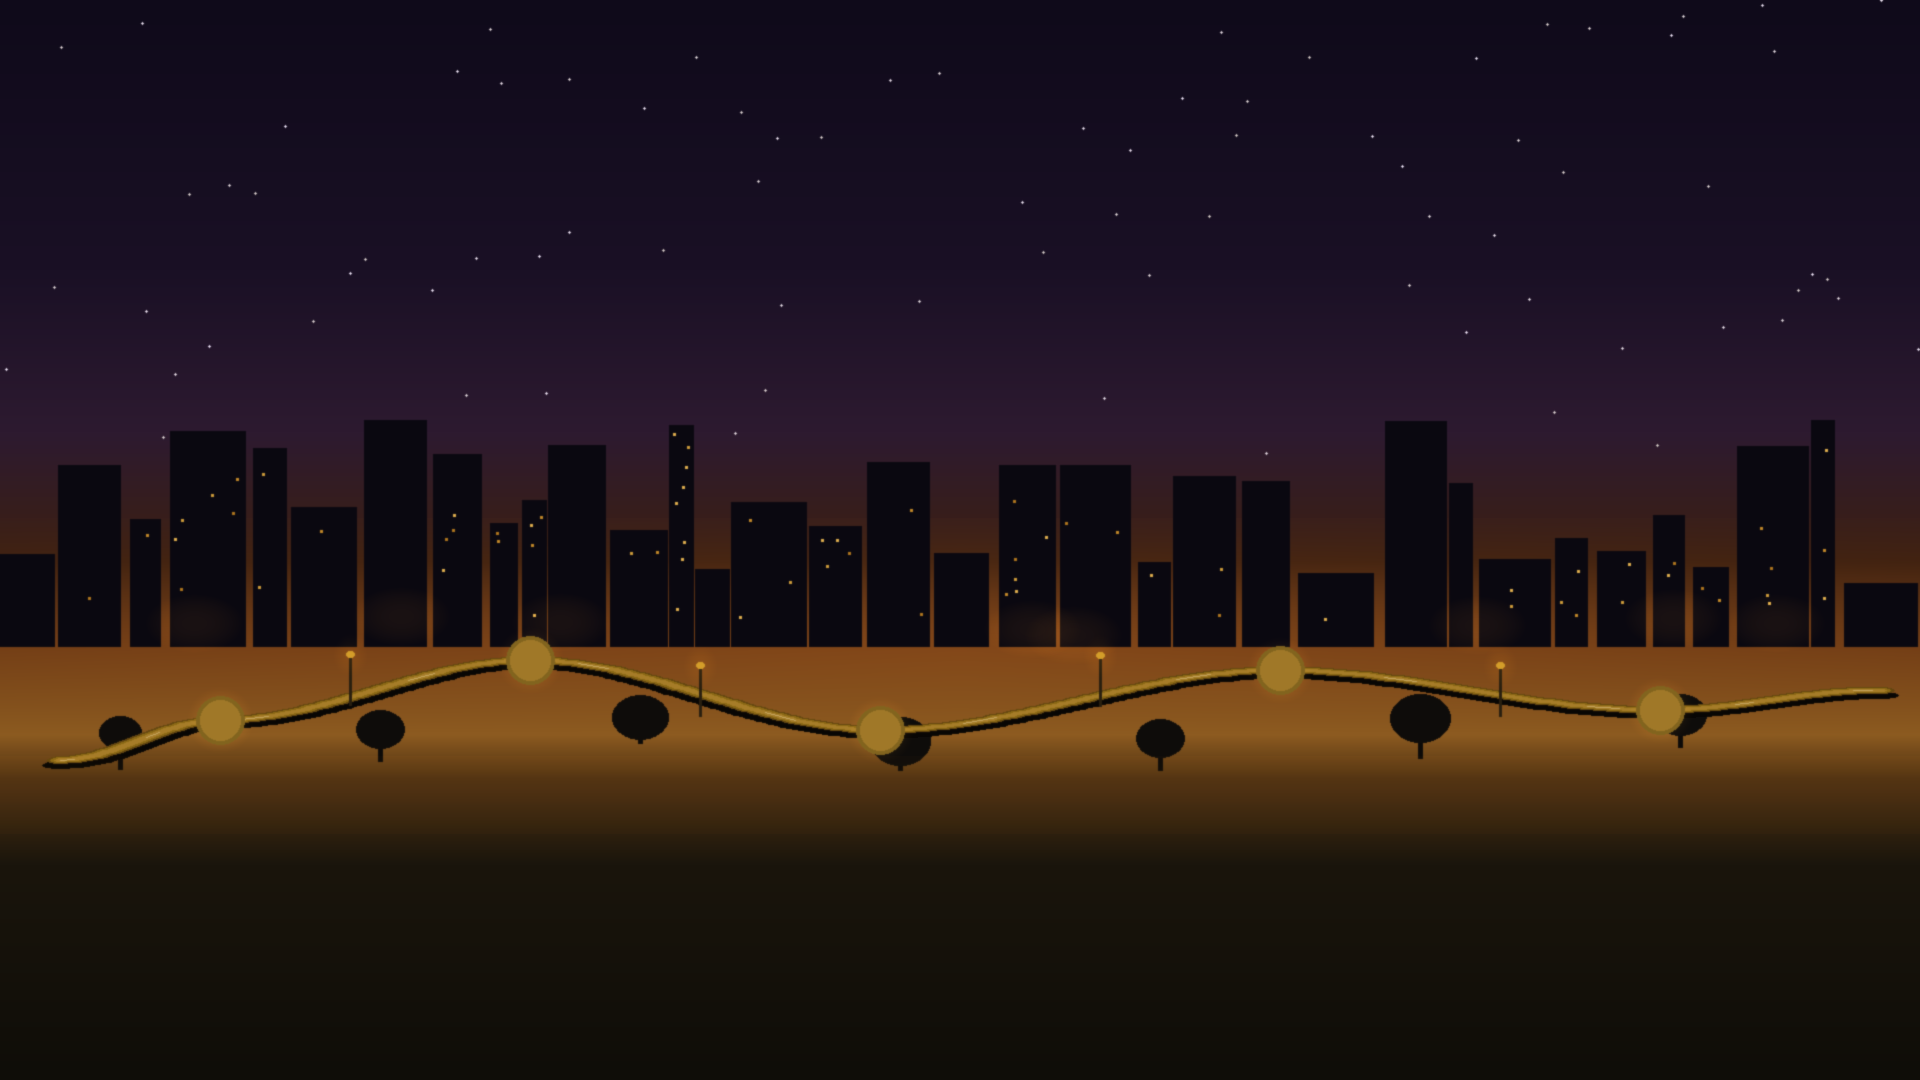
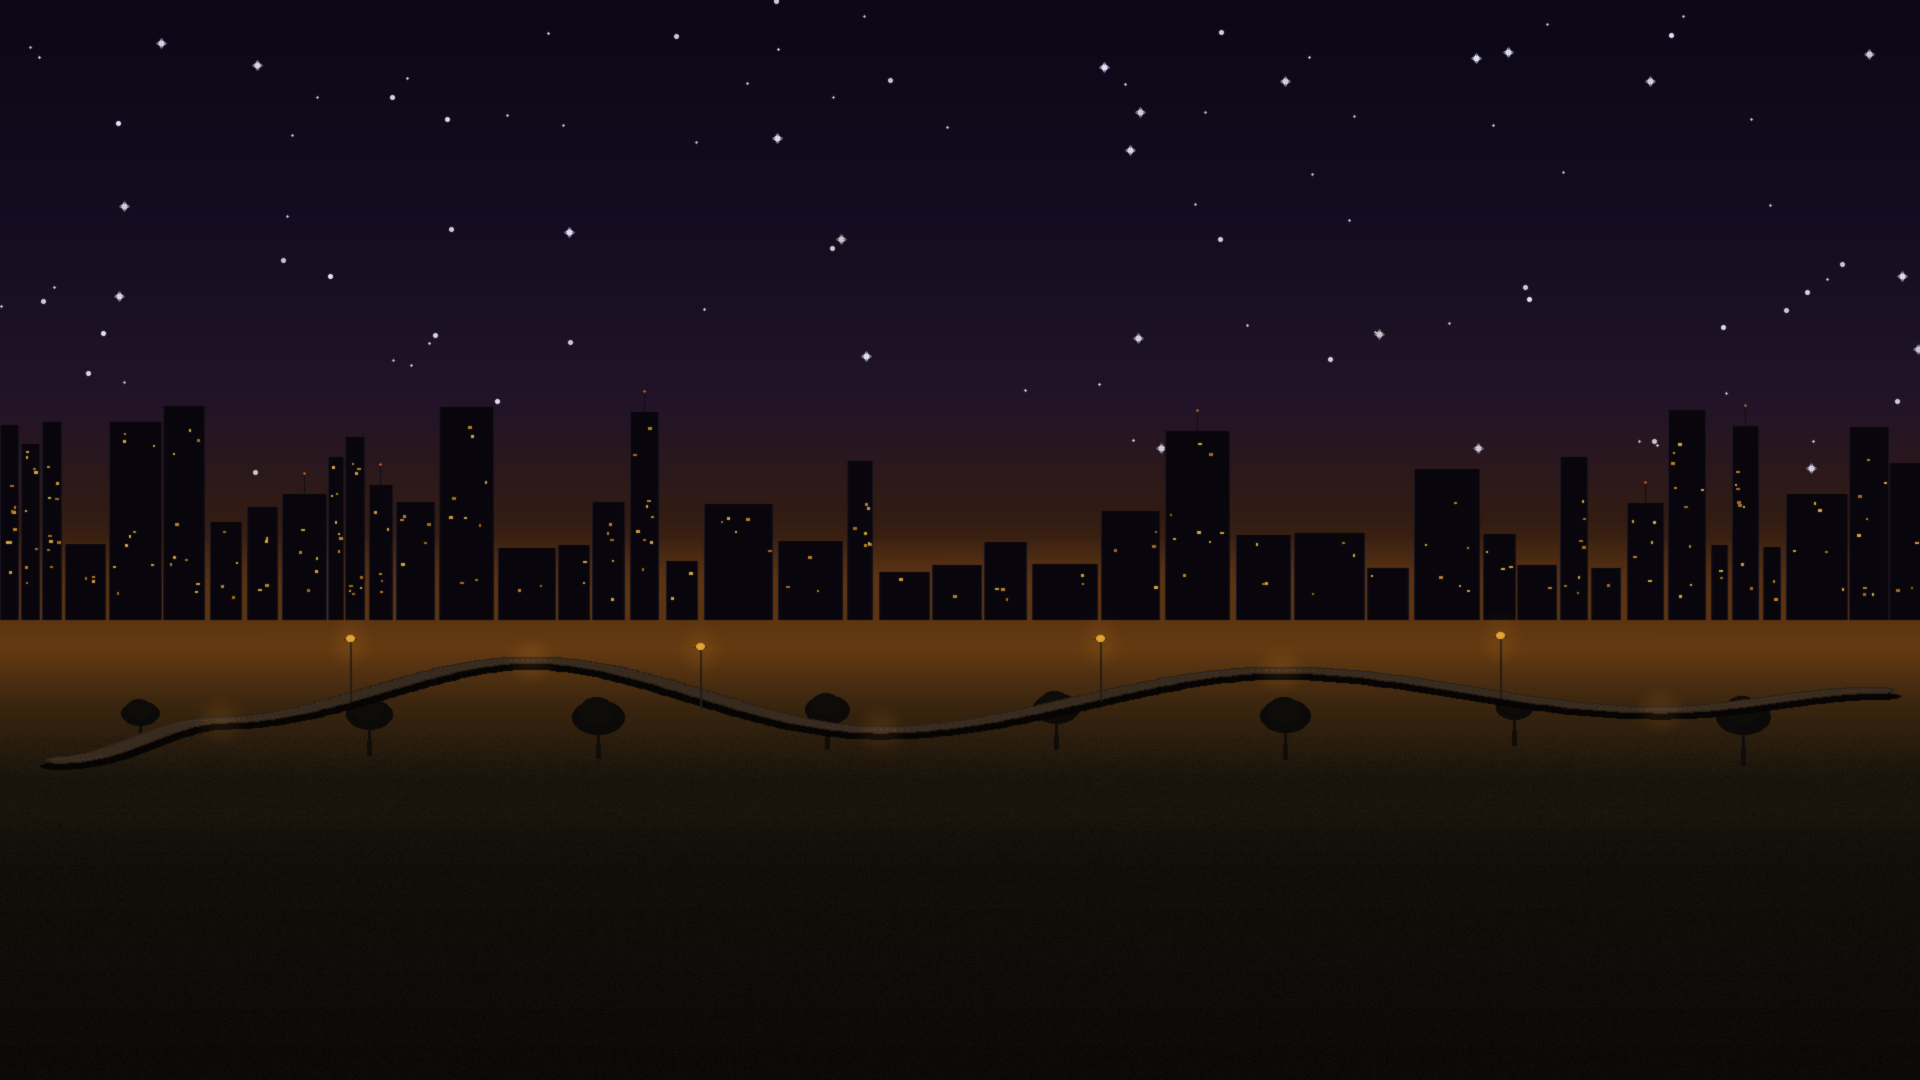
fix error navigation, delete projects, React 310 hook fix

Changed region(s): [[0.0, 0.3667, 1.0, 0.7944]]

diff --git a/frontend/app/components/OverviewModule.tsx b/frontend/app/components/OverviewModule.tsx
@@ -261,14 +261,14 @@ export function LandingPage({ onNavigate, moduleStatus, hasData, viewMode, proje
   // ── Journey Map — Mad Men golden hour aesthetic ──
   return <div className="relative min-h-[calc(100vh-48px)] flex flex-col overflow-hidden" style={{ backgroundImage: "url(/journey_bg.png)", backgroundSize: "cover", backgroundPosition: "center" }}>
 
-    {/* Header with subtle dark gradient for readability */}
-    <div className="relative z-10 text-center pt-6 pb-4" style={{ background: "linear-gradient(to bottom, rgba(0,0,0,0.4) 0%, rgba(0,0,0,0.1) 80%, transparent 100%)" }}>
-      <div style={{ fontSize: 14, color: "rgba(255,255,255,0.45)", marginBottom: 8, display: "flex", justifyContent: "center", gap: 6 }}>
-        {onBackToHub && <span onClick={onBackToHub} style={{ cursor: "pointer", textShadow: "0 1px 4px rgba(0,0,0,0.5)" }} onMouseEnter={e => e.currentTarget.style.color = "#D4860A"} onMouseLeave={e => e.currentTarget.style.color = "rgba(255,255,255,0.45)"}>Home</span>}
+    {/* Header with subtle dark gradient for readability — z-20 to stay above milestone z-10 */}
+    <div className="relative z-20 text-center pt-6 pb-4" style={{ background: "linear-gradient(to bottom, rgba(0,0,0,0.4) 0%, rgba(0,0,0,0.1) 80%, transparent 100%)" }}>
+      <div style={{ fontSize: 14, color: "rgba(255,255,255,0.45)", marginBottom: 8, display: "flex", justifyContent: "center", gap: 6, alignItems: "center" }}>
+        {onBackToHub && <button onClick={onBackToHub} style={{ cursor: "pointer", textShadow: "0 1px 4px rgba(0,0,0,0.5)", background: "none", border: "none", color: "rgba(255,255,255,0.45)", fontSize: 14, padding: "2px 4px", borderRadius: 4, transition: "color 0.15s" }} onMouseEnter={e => e.currentTarget.style.color = "#D4860A"} onMouseLeave={e => e.currentTarget.style.color = "rgba(255,255,255,0.45)"}>Home</button>}
         {onBackToHub && <span style={{ opacity: 0.3 }}>/</span>}
-        {onBackToSplash && projectName && <span onClick={onBackToSplash} style={{ cursor: "pointer", textShadow: "0 1px 4px rgba(0,0,0,0.5)" }} onMouseEnter={e => e.currentTarget.style.color = "#D4860A"} onMouseLeave={e => e.currentTarget.style.color = "rgba(255,255,255,0.45)"}>
+        {onBackToSplash && projectName && <button onClick={onBackToSplash} style={{ cursor: "pointer", textShadow: "0 1px 4px rgba(0,0,0,0.5)", background: "none", border: "none", color: "rgba(255,255,255,0.45)", fontSize: 14, padding: "2px 4px", borderRadius: 4, transition: "color 0.15s" }} onMouseEnter={e => e.currentTarget.style.color = "#D4860A"} onMouseLeave={e => e.currentTarget.style.color = "rgba(255,255,255,0.45)"}>
           {projectName}
-        </span>}
+        </button>}
         {onBackToSplash && <span style={{ opacity: 0.3 }}>/</span>}
         <span style={{ color: "rgba(212,134,10,0.7)", textShadow: "0 1px 4px rgba(0,0,0,0.5)" }}>Journey</span>
       </div>
@@ -276,8 +276,8 @@ export function LandingPage({ onNavigate, moduleStatus, hasData, viewMode, proje
       <p style={{ fontSize: 15, color: "rgba(255,255,255,0.5)", textShadow: "0 1px 6px rgba(0,0,0,0.4)" }}>Click a milestone to explore its modules</p>
     </div>
 
-    {/* Milestone icons positioned on the road clearings */}
-    <div className="absolute inset-0 z-10">
+    {/* Milestone icons — directly on road, no circles */}
+    <div className="absolute inset-0 z-10" style={{ pointerEvents: "none" }}>
       {PHASES.map((phase, pi) => {
         const status = getPhaseStatus(phase);
         const isCurrent = pi === activeIdx;
@@ -287,28 +287,16 @@ export function LandingPage({ onNavigate, moduleStatus, hasData, viewMode, proje
         return <button key={phase.id} onClick={() => setSelectedPhase(phase.id)} className="absolute group" style={{
           left: `${n.xPct}%`, top: `${n.yPct}%`, transform: "translate(-50%, -50%)",
           opacity: 0, animation: `nodeIn 0.5s ease ${0.3 + pi * 0.15}s forwards`,
+          pointerEvents: "auto",
         }}>
-          <div className="relative">
-            {/* Frosted glass circle */}
-            <div style={{
-              width: 90, height: 90, borderRadius: "50%",
-              display: "flex", alignItems: "center", justifyContent: "center", fontSize: 40,
-              background: "rgba(255,255,255,0.08)",
-              backdropFilter: "blur(16px)",
-              border: `2px solid ${isComplete ? "#D4860A" : isCurrent ? "rgba(212,134,10,0.6)" : "rgba(255,255,255,0.1)"}`,
-              boxShadow: isCurrent ? "0 0 24px rgba(212,134,10,0.2), 0 0 48px rgba(212,134,10,0.08)" : "0 4px 16px rgba(0,0,0,0.4)",
-              transition: "all 0.25s",
-              animation: isCurrent ? "nodePulse 3s ease-in-out infinite" : "none",
-              opacity: isReached ? 1 : 0.5,
-            }}>
-              {isComplete ? <span style={{ color: "#D4860A", fontSize: 32 }}>{"\u2713"}</span> : <span>{phase.icon}</span>}
-            </div>
-            {isComplete && <div className="absolute -top-1 -right-1 w-5 h-5 rounded-full bg-[#10B981] flex items-center justify-center text-white text-[14px] font-bold">{"\u2713"}</div>}
+          {/* Large icon directly on road */}
+          <div style={{ fontSize: 96, lineHeight: 1, textShadow: "0 6px 24px rgba(0,0,0,0.7)", transition: "all 0.2s", opacity: isReached ? 1 : 0.35, filter: isCurrent ? "drop-shadow(0 0 20px rgba(212,134,10,0.5))" : "none" }}>
+            {isComplete ? <span style={{ fontSize: 80 }}>{"\u2713"}</span> : phase.icon}
           </div>
           {/* Label */}
-          <div className="text-center mt-3" style={{ width: 140, marginLeft: -25 }}>
-            <div style={{ fontSize: 20, fontWeight: 700, fontFamily: "'Outfit', sans-serif", color: "#fff", textShadow: "0 2px 8px rgba(0,0,0,0.8)" }}>{phase.label}</div>
-            <div style={{ fontSize: 14, color: "rgba(255,230,200,0.5)", textShadow: "0 1px 4px rgba(0,0,0,0.6)", marginTop: 2 }}>{phase.desc}</div>
+          <div className="text-center mt-3" style={{ width: 180, marginLeft: -42 }}>
+            <div style={{ fontSize: 28, fontWeight: 700, fontFamily: "'Outfit', sans-serif", color: "#fff", textShadow: "0 2px 12px rgba(0,0,0,0.9)" }}>{phase.label}</div>
+            <div style={{ fontSize: 16, color: "rgba(255,255,255,0.7)", textShadow: "0 1px 8px rgba(0,0,0,0.8)", marginTop: 3 }}>{phase.desc}</div>
           </div>
         </button>;
       })}

diff --git a/frontend/app/components/JobArchModule.tsx b/frontend/app/components/JobArchModule.tsx
@@ -105,18 +105,19 @@ export function JobArchitectureModule({ model, f, onBack, onNavigate, viewCtx }:
   if (loading) return <div><PageHeader icon="🏗" title="Job Architecture" subtitle="Enterprise job catalogue, hierarchy, and career framework" onBack={onBack} /><LoadingBar /><div className="grid grid-cols-3 gap-4"><LoadingSkeleton rows={8} /><LoadingSkeleton rows={8} /><LoadingSkeleton rows={8} /></div></div>;
 
   return <div>
-    <ContextStrip items={[`${Number(stats.total_headcount || 0).toLocaleString()} employees · ${stats.total_functions || 0} functions · ${stats.total_families || 0} job families · ${stats.total_sub_families || 0} sub-families · ${stats.total_jobs || 0} roles`]} />
+    <ContextStrip items={[`${Number(stats.total_headcount || 0).toLocaleString()} employees · ${stats.total_functions || 0} functions · ${stats.total_family_groups || 0} family groups · ${stats.total_families || 0} families · ${stats.total_jobs || 0} roles`]} />
     <PageHeader icon="🏗" title="Job Architecture" subtitle="Enterprise job catalogue, hierarchy, career framework & validation" onBack={onBack} moduleId="jobarch" viewCtx={viewCtx} />
 
     {/* KPI Strip */}
-    <div className="grid grid-cols-7 gap-3 mb-5">
+    <div className="grid grid-cols-8 gap-3 mb-5">
       <KpiCard label="Headcount" value={Number(stats.total_headcount || 0).toLocaleString()} accent />
       <KpiCard label="Functions" value={stats.total_functions || 0} />
+      <KpiCard label="Family Groups" value={stats.total_family_groups || 0} />
       <KpiCard label="Job Families" value={stats.total_families || 0} />
       <KpiCard label="Sub-Families" value={stats.total_sub_families || 0} />
       <KpiCard label="Unique Roles" value={stats.total_jobs || 0} />
-      <KpiCard label="Career Levels" value={stats.total_levels || 0} />
-      <KpiCard label="Health Score" value={`${analytics.health_score || 0}/100`} accent />
+      <KpiCard label="Levels" value={stats.total_levels || 0} />
+      <KpiCard label="Health" value={`${analytics.health_score || 0}/100`} accent />
     </div>
 
     <TabBar tabs={[

diff --git a/frontend/app/page.tsx b/frontend/app/page.tsx
@@ -1298,7 +1298,8 @@ function ProjectHub({ onOpenProject }: { onOpenProject: (p: { id: string; name: 
                   try { await fetch(`/api/tutorial/seed?industry=${ind.id}&size=${t.size}`); } catch {}
                   seedTutorialData(tid, ind.id);
                   setSeedingId(null);
-                  setPendingSandbox({ id: tid, name: `${ind.icon} ${ind.label} — ${t.size === "small" ? "Small" : t.size === "mid" ? "Mid-Cap" : "Large-Cap"}`, meta: `${t.info} · Guided Tour` });
+                  const companyName = t.info.split(" · ")[0] || ind.label;
+                  setPendingSandbox({ id: tid, name: companyName, meta: `${ind.label} · ${t.size === "small" ? "Small-Cap" : t.size === "mid" ? "Mid-Cap" : "Large-Cap"} · ${t.info.split(" · ")[1] || ""} employees` });
                 }} style={{ width: "100%", padding: "7px 8px", borderRadius: 10, fontSize: 15, fontWeight: 600, cursor: seedingId ? "wait" : "pointer", background: seedingId === `tutorial_${t.size}_${ind.id}` ? "rgba(139,92,246,0.25)" : t.color, border: `1px solid ${seedingId === `tutorial_${t.size}_${ind.id}` ? "rgba(139,92,246,0.5)" : t.border}`, color: t.text, transition: "all 0.2s", textAlign: "center", lineHeight: 1.4, opacity: seedingId && seedingId !== `tutorial_${t.size}_${ind.id}` ? 0.4 : 1 }} onMouseEnter={e => { if (!seedingId) { e.currentTarget.style.transform = "translateY(-1px)"; e.currentTarget.style.borderColor = t.text; }}} onMouseLeave={e => { e.currentTarget.style.transform = "none"; e.currentTarget.style.borderColor = t.border; }}>{seedingId === `tutorial_${t.size}_${ind.id}` ? "⏳ Loading..." : t.info}</button></td>)}
               </tr>)}</tbody>
             </table>

diff --git a/backend/app/routes_tutorial.py b/backend/app/routes_tutorial.py
@@ -1156,6 +1156,24 @@ def _seed_tutorial_store(industry="technology", size_tier="mid"):
             return (real_func + " Leadership", "Executive")
         return (real_func, "Core Operations")
 
+    # Job Family Group: maps (function, job_family) → group name
+    # Groups cluster related families within a function
+    FAMILY_GROUP_MAP = {
+        # Corporate functions → grouped
+        "Finance": "Finance & Accounting", "FP&A": "Finance & Accounting", "Accounting": "Finance & Accounting",
+        "Human Resources": "People & Culture", "HR Operations": "People & Culture", "Talent Acquisition": "People & Culture",
+        "Legal & Compliance": "Legal & Governance", "Compliance": "Legal & Governance", "Legal Advisory": "Legal & Governance",
+        "Sales & Marketing": "Revenue & Growth", "Sales": "Revenue & Growth", "Marketing": "Revenue & Growth",
+        "Cybersecurity": "Technology & Security", "IT & Infrastructure": "Technology & Security",
+        "Software Engineering": "Engineering", "Data & Analytics": "Engineering", "Product & Design": "Engineering",
+    }
+    def _get_family_group(func: str, family: str) -> str:
+        """Derive job family group from function + family."""
+        if family in FAMILY_GROUP_MAP:
+            return FAMILY_GROUP_MAP[family]
+        # Default: use function name as the group
+        return func
+
     def _get_level_for_role(base_title):
         """Return the allowed career levels for a role from the industry hierarchy."""
         h = INDUSTRY_HIERARCHIES.get(industry, _TECH_HIERARCHY)
@@ -1190,6 +1208,7 @@ def _seed_tutorial_store(industry="technology", size_tier="mid"):
                 eid = f"EMP{str(emp_id).zfill(5)}"
 
                 jf, sf = _get_hierarchy(title, real_func)
+                jfg = _get_family_group(real_func, jf)
                 # Use hierarchy-specified level if available, else blueprint default
                 allowed = _get_level_for_role(title)
                 actual_level = random.choice(allowed) if allowed else level
@@ -1197,7 +1216,7 @@ def _seed_tutorial_store(industry="technology", size_tier="mid"):
                 ct, cl, cl_name = assign_career_track(real_title, actual_level, track, industry)
                 employees.append({
                     "Employee ID": eid, "Name": name, "Job Title": real_title,
-                    "Function": real_func, "Job Family": jf, "Sub-Function": sf,
+                    "Function": real_func, "Job Family Group": jfg, "Job Family": jf, "Sub-Function": sf,
                     "Career Level": cl, "Career Track": ct,
                     "Manager ID": "", "Compensation": comp,
                     "Tenure": random.randint(0, 20),

diff --git a/backend/app/routes_job_arch.py b/backend/app/routes_job_arch.py
@@ -142,11 +142,16 @@ def _build_hierarchy(wf, jc, wd):
     functions = sorted(set(j["function"] for j in jobs_flat))
     families = sorted(set(j["family"] for j in jobs_flat))
     sub_families = sorted(set(j["sub_family"] for j in jobs_flat))
+    # Count family groups from workforce data if available
+    family_groups_count = 0
+    if wf is not None and not wf.empty and "Job Family Group" in wf.columns:
+        family_groups_count = int(get_series(wf, "Job Family Group").nunique())
 
     stats = {
         "total_jobs": len(jobs_flat),
         "total_headcount": total_hc,
         "total_functions": len(functions),
+        "total_family_groups": family_groups_count,
         "total_families": len(families),
         "total_sub_families": len(sub_families),
         "total_levels": len(levels),

diff --git a/backend/app/schemas_definitions.py b/backend/app/schemas_definitions.py
@@ -5,7 +5,7 @@ SCHEMAS = {
         "required": ["Model ID", "Employee ID", "Employee Name"],
         "all": [
             "Model ID", "Employee ID", "Employee Name", "Manager ID", "Manager Name",
-            "Function ID", "Job Family", "Sub-Family", "Geography",
+            "Function ID", "Job Family Group", "Job Family", "Sub-Family", "Geography",
             "Career Track", "Career Level", "Job Title", "Job Description",
             "Department", "Org Unit", "FTE", "Base Pay", "Total Cash",
             "Hire Date", "Performance Rating", "Critical Role"
